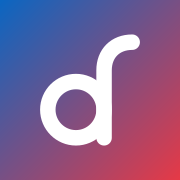
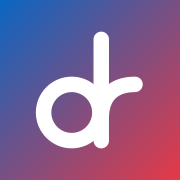
Make the r legible: shared stem with the arm at the top of the d's bowl

diff --git a/index.html b/index.html
@@ -72,7 +72,7 @@
 <a class="skip-link" href="#maincontent">Skip to content</a>
 <div id="scroll-progress" aria-hidden="true"></div>
 <header class="topbar">
-  <a class="brand" href="index.html" aria-label="Diego Rivada, home"><svg xmlns="http://www.w3.org/2000/svg" viewBox="0 0 64 64" class="monogram" aria-hidden="true" focusable="false"><defs><linearGradient id="dr-g" x1="0" y1="0" x2="64" y2="64" gradientUnits="userSpaceOnUse"><stop offset="0" stop-color="#0a66c2"/><stop offset="1" stop-color="#e63946"/></linearGradient></defs><rect width="64" height="64" rx="18" fill="url(#dr-g)"/><g fill="none" stroke="#fff" stroke-width="5.5" stroke-linecap="round" stroke-linejoin="round"><circle cx="27" cy="39" r="10"/><path d="M37 49V25c0-6 4-10 10-10"/></g></svg><span class="brand-name">Diego Rivada</span></a>
+  <a class="brand" href="index.html" aria-label="Diego Rivada, home"><svg xmlns="http://www.w3.org/2000/svg" viewBox="0 0 64 64" class="monogram" aria-hidden="true" focusable="false"><defs><linearGradient id="dr-g" x1="0" y1="0" x2="64" y2="64" gradientUnits="userSpaceOnUse"><stop offset="0" stop-color="#0a66c2"/><stop offset="1" stop-color="#e63946"/></linearGradient></defs><rect width="64" height="64" rx="18" fill="url(#dr-g)"/><g fill="none" stroke="#fff" stroke-width="5.5" stroke-linecap="round" stroke-linejoin="round"><circle cx="25.5" cy="40" r="10"/><path d="M36 14v36"/><path d="M36 42c0-8 4.5-12 12-12"/></g></svg><span class="brand-name">Diego Rivada</span></a>
   <nav class="nav" id="site-nav" aria-label="Site">
     <a href="index.html" aria-current="page">Home</a>
     <a href="security.html">Security</a>

diff --git a/security.html b/security.html
@@ -72,7 +72,7 @@
 <a class="skip-link" href="#maincontent">Skip to content</a>
 <div id="scroll-progress" aria-hidden="true"></div>
 <header class="topbar">
-  <a class="brand" href="index.html" aria-label="Diego Rivada, home"><svg xmlns="http://www.w3.org/2000/svg" viewBox="0 0 64 64" class="monogram" aria-hidden="true" focusable="false"><defs><linearGradient id="dr-g" x1="0" y1="0" x2="64" y2="64" gradientUnits="userSpaceOnUse"><stop offset="0" stop-color="#0a66c2"/><stop offset="1" stop-color="#e63946"/></linearGradient></defs><rect width="64" height="64" rx="18" fill="url(#dr-g)"/><g fill="none" stroke="#fff" stroke-width="5.5" stroke-linecap="round" stroke-linejoin="round"><circle cx="27" cy="39" r="10"/><path d="M37 49V25c0-6 4-10 10-10"/></g></svg><span class="brand-name">Diego Rivada</span></a>
+  <a class="brand" href="index.html" aria-label="Diego Rivada, home"><svg xmlns="http://www.w3.org/2000/svg" viewBox="0 0 64 64" class="monogram" aria-hidden="true" focusable="false"><defs><linearGradient id="dr-g" x1="0" y1="0" x2="64" y2="64" gradientUnits="userSpaceOnUse"><stop offset="0" stop-color="#0a66c2"/><stop offset="1" stop-color="#e63946"/></linearGradient></defs><rect width="64" height="64" rx="18" fill="url(#dr-g)"/><g fill="none" stroke="#fff" stroke-width="5.5" stroke-linecap="round" stroke-linejoin="round"><circle cx="25.5" cy="40" r="10"/><path d="M36 14v36"/><path d="M36 42c0-8 4.5-12 12-12"/></g></svg><span class="brand-name">Diego Rivada</span></a>
   <nav class="nav" id="site-nav" aria-label="Site">
     <a href="index.html">Home</a>
     <a href="security.html" aria-current="page">Security</a>

diff --git a/agents.html b/agents.html
@@ -71,7 +71,7 @@
 <a class="skip-link" href="#maincontent">Skip to content</a>
 <div id="scroll-progress" aria-hidden="true"></div>
 <header class="topbar">
-  <a class="brand" href="index.html" aria-label="Diego Rivada, home"><svg xmlns="http://www.w3.org/2000/svg" viewBox="0 0 64 64" class="monogram" aria-hidden="true" focusable="false"><defs><linearGradient id="dr-g" x1="0" y1="0" x2="64" y2="64" gradientUnits="userSpaceOnUse"><stop offset="0" stop-color="#0a66c2"/><stop offset="1" stop-color="#e63946"/></linearGradient></defs><rect width="64" height="64" rx="18" fill="url(#dr-g)"/><g fill="none" stroke="#fff" stroke-width="5.5" stroke-linecap="round" stroke-linejoin="round"><circle cx="27" cy="39" r="10"/><path d="M37 49V25c0-6 4-10 10-10"/></g></svg><span class="brand-name">Diego Rivada</span></a>
+  <a class="brand" href="index.html" aria-label="Diego Rivada, home"><svg xmlns="http://www.w3.org/2000/svg" viewBox="0 0 64 64" class="monogram" aria-hidden="true" focusable="false"><defs><linearGradient id="dr-g" x1="0" y1="0" x2="64" y2="64" gradientUnits="userSpaceOnUse"><stop offset="0" stop-color="#0a66c2"/><stop offset="1" stop-color="#e63946"/></linearGradient></defs><rect width="64" height="64" rx="18" fill="url(#dr-g)"/><g fill="none" stroke="#fff" stroke-width="5.5" stroke-linecap="round" stroke-linejoin="round"><circle cx="25.5" cy="40" r="10"/><path d="M36 14v36"/><path d="M36 42c0-8 4.5-12 12-12"/></g></svg><span class="brand-name">Diego Rivada</span></a>
   <nav class="nav" id="site-nav" aria-label="Site">
     <a href="index.html">Home</a>
     <a href="security.html">Security</a>

diff --git a/apps.html b/apps.html
@@ -72,7 +72,7 @@
 <a class="skip-link" href="#maincontent">Skip to content</a>
 <div id="scroll-progress" aria-hidden="true"></div>
 <header class="topbar">
-  <a class="brand" href="index.html" aria-label="Diego Rivada, home"><svg xmlns="http://www.w3.org/2000/svg" viewBox="0 0 64 64" class="monogram" aria-hidden="true" focusable="false"><defs><linearGradient id="dr-g" x1="0" y1="0" x2="64" y2="64" gradientUnits="userSpaceOnUse"><stop offset="0" stop-color="#0a66c2"/><stop offset="1" stop-color="#e63946"/></linearGradient></defs><rect width="64" height="64" rx="18" fill="url(#dr-g)"/><g fill="none" stroke="#fff" stroke-width="5.5" stroke-linecap="round" stroke-linejoin="round"><circle cx="27" cy="39" r="10"/><path d="M37 49V25c0-6 4-10 10-10"/></g></svg><span class="brand-name">Diego Rivada</span></a>
+  <a class="brand" href="index.html" aria-label="Diego Rivada, home"><svg xmlns="http://www.w3.org/2000/svg" viewBox="0 0 64 64" class="monogram" aria-hidden="true" focusable="false"><defs><linearGradient id="dr-g" x1="0" y1="0" x2="64" y2="64" gradientUnits="userSpaceOnUse"><stop offset="0" stop-color="#0a66c2"/><stop offset="1" stop-color="#e63946"/></linearGradient></defs><rect width="64" height="64" rx="18" fill="url(#dr-g)"/><g fill="none" stroke="#fff" stroke-width="5.5" stroke-linecap="round" stroke-linejoin="round"><circle cx="25.5" cy="40" r="10"/><path d="M36 14v36"/><path d="M36 42c0-8 4.5-12 12-12"/></g></svg><span class="brand-name">Diego Rivada</span></a>
   <nav class="nav" id="site-nav" aria-label="Site">
     <a href="index.html">Home</a>
     <a href="security.html">Security</a>

diff --git a/coding.html b/coding.html
@@ -71,7 +71,7 @@
 <a class="skip-link" href="#maincontent">Skip to content</a>
 <div id="scroll-progress" aria-hidden="true"></div>
 <header class="topbar">
-  <a class="brand" href="index.html" aria-label="Diego Rivada, home"><svg xmlns="http://www.w3.org/2000/svg" viewBox="0 0 64 64" class="monogram" aria-hidden="true" focusable="false"><defs><linearGradient id="dr-g" x1="0" y1="0" x2="64" y2="64" gradientUnits="userSpaceOnUse"><stop offset="0" stop-color="#0a66c2"/><stop offset="1" stop-color="#e63946"/></linearGradient></defs><rect width="64" height="64" rx="18" fill="url(#dr-g)"/><g fill="none" stroke="#fff" stroke-width="5.5" stroke-linecap="round" stroke-linejoin="round"><circle cx="27" cy="39" r="10"/><path d="M37 49V25c0-6 4-10 10-10"/></g></svg><span class="brand-name">Diego Rivada</span></a>
+  <a class="brand" href="index.html" aria-label="Diego Rivada, home"><svg xmlns="http://www.w3.org/2000/svg" viewBox="0 0 64 64" class="monogram" aria-hidden="true" focusable="false"><defs><linearGradient id="dr-g" x1="0" y1="0" x2="64" y2="64" gradientUnits="userSpaceOnUse"><stop offset="0" stop-color="#0a66c2"/><stop offset="1" stop-color="#e63946"/></linearGradient></defs><rect width="64" height="64" rx="18" fill="url(#dr-g)"/><g fill="none" stroke="#fff" stroke-width="5.5" stroke-linecap="round" stroke-linejoin="round"><circle cx="25.5" cy="40" r="10"/><path d="M36 14v36"/><path d="M36 42c0-8 4.5-12 12-12"/></g></svg><span class="brand-name">Diego Rivada</span></a>
   <nav class="nav" id="site-nav" aria-label="Site">
     <a href="index.html">Home</a>
     <a href="security.html">Security</a>

diff --git a/eardeck-privacy.html b/eardeck-privacy.html
@@ -71,7 +71,7 @@
 <a class="skip-link" href="#maincontent">Skip to content</a>
 <div id="scroll-progress" aria-hidden="true"></div>
 <header class="topbar">
-  <a class="brand" href="index.html" aria-label="Diego Rivada, home"><svg xmlns="http://www.w3.org/2000/svg" viewBox="0 0 64 64" class="monogram" aria-hidden="true" focusable="false"><defs><linearGradient id="dr-g" x1="0" y1="0" x2="64" y2="64" gradientUnits="userSpaceOnUse"><stop offset="0" stop-color="#0a66c2"/><stop offset="1" stop-color="#e63946"/></linearGradient></defs><rect width="64" height="64" rx="18" fill="url(#dr-g)"/><g fill="none" stroke="#fff" stroke-width="5.5" stroke-linecap="round" stroke-linejoin="round"><circle cx="27" cy="39" r="10"/><path d="M37 49V25c0-6 4-10 10-10"/></g></svg><span class="brand-name">Diego Rivada</span></a>
+  <a class="brand" href="index.html" aria-label="Diego Rivada, home"><svg xmlns="http://www.w3.org/2000/svg" viewBox="0 0 64 64" class="monogram" aria-hidden="true" focusable="false"><defs><linearGradient id="dr-g" x1="0" y1="0" x2="64" y2="64" gradientUnits="userSpaceOnUse"><stop offset="0" stop-color="#0a66c2"/><stop offset="1" stop-color="#e63946"/></linearGradient></defs><rect width="64" height="64" rx="18" fill="url(#dr-g)"/><g fill="none" stroke="#fff" stroke-width="5.5" stroke-linecap="round" stroke-linejoin="round"><circle cx="25.5" cy="40" r="10"/><path d="M36 14v36"/><path d="M36 42c0-8 4.5-12 12-12"/></g></svg><span class="brand-name">Diego Rivada</span></a>
   <nav class="nav" id="site-nav" aria-label="Site">
     <a href="index.html">Home</a>
     <a href="security.html">Security</a>

diff --git a/homelab-case-study.html b/homelab-case-study.html
@@ -71,7 +71,7 @@
 <a class="skip-link" href="#maincontent">Skip to content</a>
 <div id="scroll-progress" aria-hidden="true"></div>
 <header class="topbar">
-  <a class="brand" href="index.html" aria-label="Diego Rivada, home"><svg xmlns="http://www.w3.org/2000/svg" viewBox="0 0 64 64" class="monogram" aria-hidden="true" focusable="false"><defs><linearGradient id="dr-g" x1="0" y1="0" x2="64" y2="64" gradientUnits="userSpaceOnUse"><stop offset="0" stop-color="#0a66c2"/><stop offset="1" stop-color="#e63946"/></linearGradient></defs><rect width="64" height="64" rx="18" fill="url(#dr-g)"/><g fill="none" stroke="#fff" stroke-width="5.5" stroke-linecap="round" stroke-linejoin="round"><circle cx="27" cy="39" r="10"/><path d="M37 49V25c0-6 4-10 10-10"/></g></svg><span class="brand-name">Diego Rivada</span></a>
+  <a class="brand" href="index.html" aria-label="Diego Rivada, home"><svg xmlns="http://www.w3.org/2000/svg" viewBox="0 0 64 64" class="monogram" aria-hidden="true" focusable="false"><defs><linearGradient id="dr-g" x1="0" y1="0" x2="64" y2="64" gradientUnits="userSpaceOnUse"><stop offset="0" stop-color="#0a66c2"/><stop offset="1" stop-color="#e63946"/></linearGradient></defs><rect width="64" height="64" rx="18" fill="url(#dr-g)"/><g fill="none" stroke="#fff" stroke-width="5.5" stroke-linecap="round" stroke-linejoin="round"><circle cx="25.5" cy="40" r="10"/><path d="M36 14v36"/><path d="M36 42c0-8 4.5-12 12-12"/></g></svg><span class="brand-name">Diego Rivada</span></a>
   <nav class="nav" id="site-nav" aria-label="Site">
     <a href="index.html">Home</a>
     <a href="security.html">Security</a>

diff --git a/homelab.html b/homelab.html
@@ -71,7 +71,7 @@
 <a class="skip-link" href="#maincontent">Skip to content</a>
 <div id="scroll-progress" aria-hidden="true"></div>
 <header class="topbar">
-  <a class="brand" href="index.html" aria-label="Diego Rivada, home"><svg xmlns="http://www.w3.org/2000/svg" viewBox="0 0 64 64" class="monogram" aria-hidden="true" focusable="false"><defs><linearGradient id="dr-g" x1="0" y1="0" x2="64" y2="64" gradientUnits="userSpaceOnUse"><stop offset="0" stop-color="#0a66c2"/><stop offset="1" stop-color="#e63946"/></linearGradient></defs><rect width="64" height="64" rx="18" fill="url(#dr-g)"/><g fill="none" stroke="#fff" stroke-width="5.5" stroke-linecap="round" stroke-linejoin="round"><circle cx="27" cy="39" r="10"/><path d="M37 49V25c0-6 4-10 10-10"/></g></svg><span class="brand-name">Diego Rivada</span></a>
+  <a class="brand" href="index.html" aria-label="Diego Rivada, home"><svg xmlns="http://www.w3.org/2000/svg" viewBox="0 0 64 64" class="monogram" aria-hidden="true" focusable="false"><defs><linearGradient id="dr-g" x1="0" y1="0" x2="64" y2="64" gradientUnits="userSpaceOnUse"><stop offset="0" stop-color="#0a66c2"/><stop offset="1" stop-color="#e63946"/></linearGradient></defs><rect width="64" height="64" rx="18" fill="url(#dr-g)"/><g fill="none" stroke="#fff" stroke-width="5.5" stroke-linecap="round" stroke-linejoin="round"><circle cx="25.5" cy="40" r="10"/><path d="M36 14v36"/><path d="M36 42c0-8 4.5-12 12-12"/></g></svg><span class="brand-name">Diego Rivada</span></a>
   <nav class="nav" id="site-nav" aria-label="Site">
     <a href="index.html">Home</a>
     <a href="security.html">Security</a>

diff --git a/pictures.html b/pictures.html
@@ -71,7 +71,7 @@
 <a class="skip-link" href="#maincontent">Skip to content</a>
 <div id="scroll-progress" aria-hidden="true"></div>
 <header class="topbar">
-  <a class="brand" href="index.html" aria-label="Diego Rivada, home"><svg xmlns="http://www.w3.org/2000/svg" viewBox="0 0 64 64" class="monogram" aria-hidden="true" focusable="false"><defs><linearGradient id="dr-g" x1="0" y1="0" x2="64" y2="64" gradientUnits="userSpaceOnUse"><stop offset="0" stop-color="#0a66c2"/><stop offset="1" stop-color="#e63946"/></linearGradient></defs><rect width="64" height="64" rx="18" fill="url(#dr-g)"/><g fill="none" stroke="#fff" stroke-width="5.5" stroke-linecap="round" stroke-linejoin="round"><circle cx="27" cy="39" r="10"/><path d="M37 49V25c0-6 4-10 10-10"/></g></svg><span class="brand-name">Diego Rivada</span></a>
+  <a class="brand" href="index.html" aria-label="Diego Rivada, home"><svg xmlns="http://www.w3.org/2000/svg" viewBox="0 0 64 64" class="monogram" aria-hidden="true" focusable="false"><defs><linearGradient id="dr-g" x1="0" y1="0" x2="64" y2="64" gradientUnits="userSpaceOnUse"><stop offset="0" stop-color="#0a66c2"/><stop offset="1" stop-color="#e63946"/></linearGradient></defs><rect width="64" height="64" rx="18" fill="url(#dr-g)"/><g fill="none" stroke="#fff" stroke-width="5.5" stroke-linecap="round" stroke-linejoin="round"><circle cx="25.5" cy="40" r="10"/><path d="M36 14v36"/><path d="M36 42c0-8 4.5-12 12-12"/></g></svg><span class="brand-name">Diego Rivada</span></a>
   <nav class="nav" id="site-nav" aria-label="Site">
     <a href="index.html">Home</a>
     <a href="security.html">Security</a>

diff --git a/thankyou.html b/thankyou.html
@@ -64,7 +64,7 @@
 <a class="skip-link" href="#maincontent">Skip to content</a>
 <div id="scroll-progress" aria-hidden="true"></div>
 <header class="topbar">
-  <a class="brand" href="index.html" aria-label="Diego Rivada, home"><svg xmlns="http://www.w3.org/2000/svg" viewBox="0 0 64 64" class="monogram" aria-hidden="true" focusable="false"><defs><linearGradient id="dr-g" x1="0" y1="0" x2="64" y2="64" gradientUnits="userSpaceOnUse"><stop offset="0" stop-color="#0a66c2"/><stop offset="1" stop-color="#e63946"/></linearGradient></defs><rect width="64" height="64" rx="18" fill="url(#dr-g)"/><g fill="none" stroke="#fff" stroke-width="5.5" stroke-linecap="round" stroke-linejoin="round"><circle cx="27" cy="39" r="10"/><path d="M37 49V25c0-6 4-10 10-10"/></g></svg><span class="brand-name">Diego Rivada</span></a>
+  <a class="brand" href="index.html" aria-label="Diego Rivada, home"><svg xmlns="http://www.w3.org/2000/svg" viewBox="0 0 64 64" class="monogram" aria-hidden="true" focusable="false"><defs><linearGradient id="dr-g" x1="0" y1="0" x2="64" y2="64" gradientUnits="userSpaceOnUse"><stop offset="0" stop-color="#0a66c2"/><stop offset="1" stop-color="#e63946"/></linearGradient></defs><rect width="64" height="64" rx="18" fill="url(#dr-g)"/><g fill="none" stroke="#fff" stroke-width="5.5" stroke-linecap="round" stroke-linejoin="round"><circle cx="25.5" cy="40" r="10"/><path d="M36 14v36"/><path d="M36 42c0-8 4.5-12 12-12"/></g></svg><span class="brand-name">Diego Rivada</span></a>
   <nav class="nav" id="site-nav" aria-label="Site">
     <a href="index.html">Home</a>
     <a href="security.html">Security</a>

diff --git a/updateall-privacy.html b/updateall-privacy.html
@@ -71,7 +71,7 @@
 <a class="skip-link" href="#maincontent">Skip to content</a>
 <div id="scroll-progress" aria-hidden="true"></div>
 <header class="topbar">
-  <a class="brand" href="index.html" aria-label="Diego Rivada, home"><svg xmlns="http://www.w3.org/2000/svg" viewBox="0 0 64 64" class="monogram" aria-hidden="true" focusable="false"><defs><linearGradient id="dr-g" x1="0" y1="0" x2="64" y2="64" gradientUnits="userSpaceOnUse"><stop offset="0" stop-color="#0a66c2"/><stop offset="1" stop-color="#e63946"/></linearGradient></defs><rect width="64" height="64" rx="18" fill="url(#dr-g)"/><g fill="none" stroke="#fff" stroke-width="5.5" stroke-linecap="round" stroke-linejoin="round"><circle cx="27" cy="39" r="10"/><path d="M37 49V25c0-6 4-10 10-10"/></g></svg><span class="brand-name">Diego Rivada</span></a>
+  <a class="brand" href="index.html" aria-label="Diego Rivada, home"><svg xmlns="http://www.w3.org/2000/svg" viewBox="0 0 64 64" class="monogram" aria-hidden="true" focusable="false"><defs><linearGradient id="dr-g" x1="0" y1="0" x2="64" y2="64" gradientUnits="userSpaceOnUse"><stop offset="0" stop-color="#0a66c2"/><stop offset="1" stop-color="#e63946"/></linearGradient></defs><rect width="64" height="64" rx="18" fill="url(#dr-g)"/><g fill="none" stroke="#fff" stroke-width="5.5" stroke-linecap="round" stroke-linejoin="round"><circle cx="25.5" cy="40" r="10"/><path d="M36 14v36"/><path d="M36 42c0-8 4.5-12 12-12"/></g></svg><span class="brand-name">Diego Rivada</span></a>
   <nav class="nav" id="site-nav" aria-label="Site">
     <a href="index.html">Home</a>
     <a href="security.html">Security</a>

diff --git a/youtube.html b/youtube.html
@@ -71,7 +71,7 @@
 <a class="skip-link" href="#maincontent">Skip to content</a>
 <div id="scroll-progress" aria-hidden="true"></div>
 <header class="topbar">
-  <a class="brand" href="index.html" aria-label="Diego Rivada, home"><svg xmlns="http://www.w3.org/2000/svg" viewBox="0 0 64 64" class="monogram" aria-hidden="true" focusable="false"><defs><linearGradient id="dr-g" x1="0" y1="0" x2="64" y2="64" gradientUnits="userSpaceOnUse"><stop offset="0" stop-color="#0a66c2"/><stop offset="1" stop-color="#e63946"/></linearGradient></defs><rect width="64" height="64" rx="18" fill="url(#dr-g)"/><g fill="none" stroke="#fff" stroke-width="5.5" stroke-linecap="round" stroke-linejoin="round"><circle cx="27" cy="39" r="10"/><path d="M37 49V25c0-6 4-10 10-10"/></g></svg><span class="brand-name">Diego Rivada</span></a>
+  <a class="brand" href="index.html" aria-label="Diego Rivada, home"><svg xmlns="http://www.w3.org/2000/svg" viewBox="0 0 64 64" class="monogram" aria-hidden="true" focusable="false"><defs><linearGradient id="dr-g" x1="0" y1="0" x2="64" y2="64" gradientUnits="userSpaceOnUse"><stop offset="0" stop-color="#0a66c2"/><stop offset="1" stop-color="#e63946"/></linearGradient></defs><rect width="64" height="64" rx="18" fill="url(#dr-g)"/><g fill="none" stroke="#fff" stroke-width="5.5" stroke-linecap="round" stroke-linejoin="round"><circle cx="25.5" cy="40" r="10"/><path d="M36 14v36"/><path d="M36 42c0-8 4.5-12 12-12"/></g></svg><span class="brand-name">Diego Rivada</span></a>
   <nav class="nav" id="site-nav" aria-label="Site">
     <a href="index.html">Home</a>
     <a href="security.html">Security</a>
